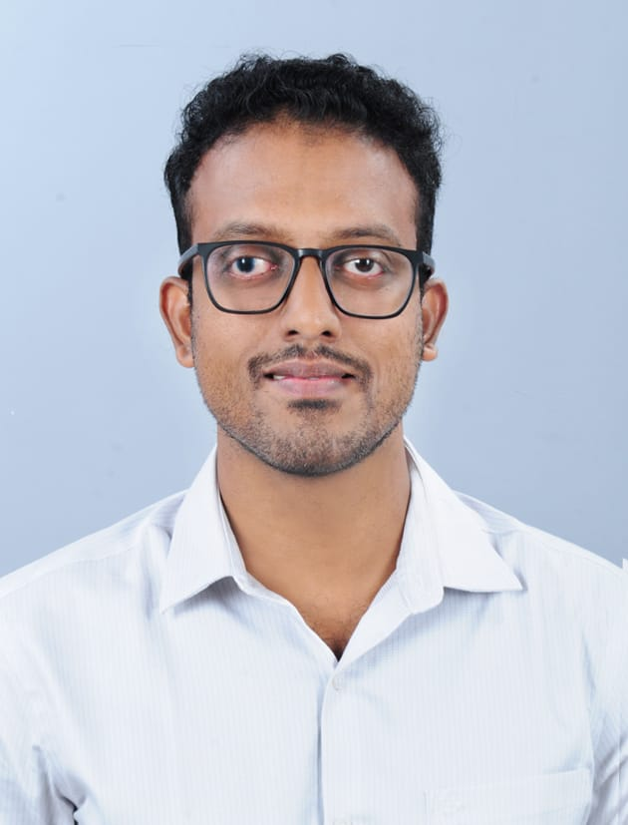
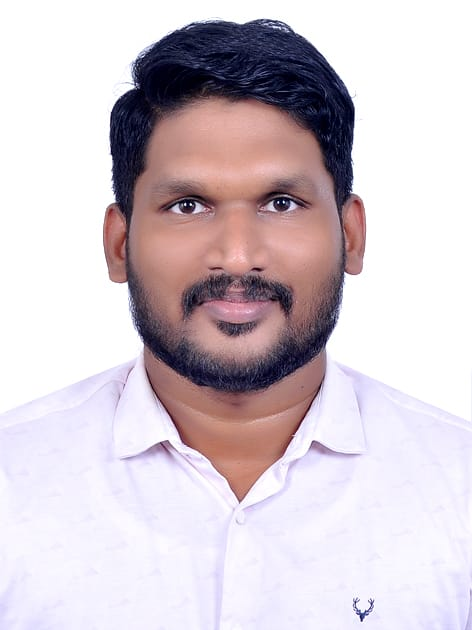
Correct speaker image mappings for Dr. Krishnakumar RS, Dr. Aravind Sreekumar, and Dr. Vinayak M S

diff --git a/frontend/src/pages/OurSpeakers.jsx b/frontend/src/pages/OurSpeakers.jsx
@@ -52,12 +52,13 @@ import shameerPhoto from '../assets/shameer.png';
 import farisPhoto from '../assets/faris.jpg';
 import nithinPhoto from '../assets/nithin.png';
 import vijayPhoto from '../assets/vijay.png';
-import aravindPhoto from '../assets/aravind.jpg';
+import aravindPhoto from '../assets/aravind.png';
 import vinayakPhoto from '../assets/vinayak.png';
 import roshanPhoto from '../assets/roshan.jpg';
 import ashidaPhoto from '../assets/ashida.png';
 import jabirPhoto from '../assets/jabir.jpg';
 import mohammedShahalPhoto from '../assets/mohammed_shahal.png';
+import krishnakumarPhoto from '../assets/krishnakumar.jpg';
 
 
 const SpeakerCard = ({ name, designation, description, photo }) => {
@@ -216,6 +217,7 @@ const OurSpeakers = () => {
       if (lowerName.includes('ashida')) return ashidaPhoto;
       if (lowerName.includes('jabir')) return jabirPhoto;
       if (lowerName.includes('shahal') || lowerName.includes('mohammed shahal')) return mohammedShahalPhoto;
+      if (lowerName.includes('krishnakumar')) return krishnakumarPhoto;
     }
     if (!path) return '';
     if (path.startsWith('http://') || path.startsWith('https://') || path.startsWith('data:')) {